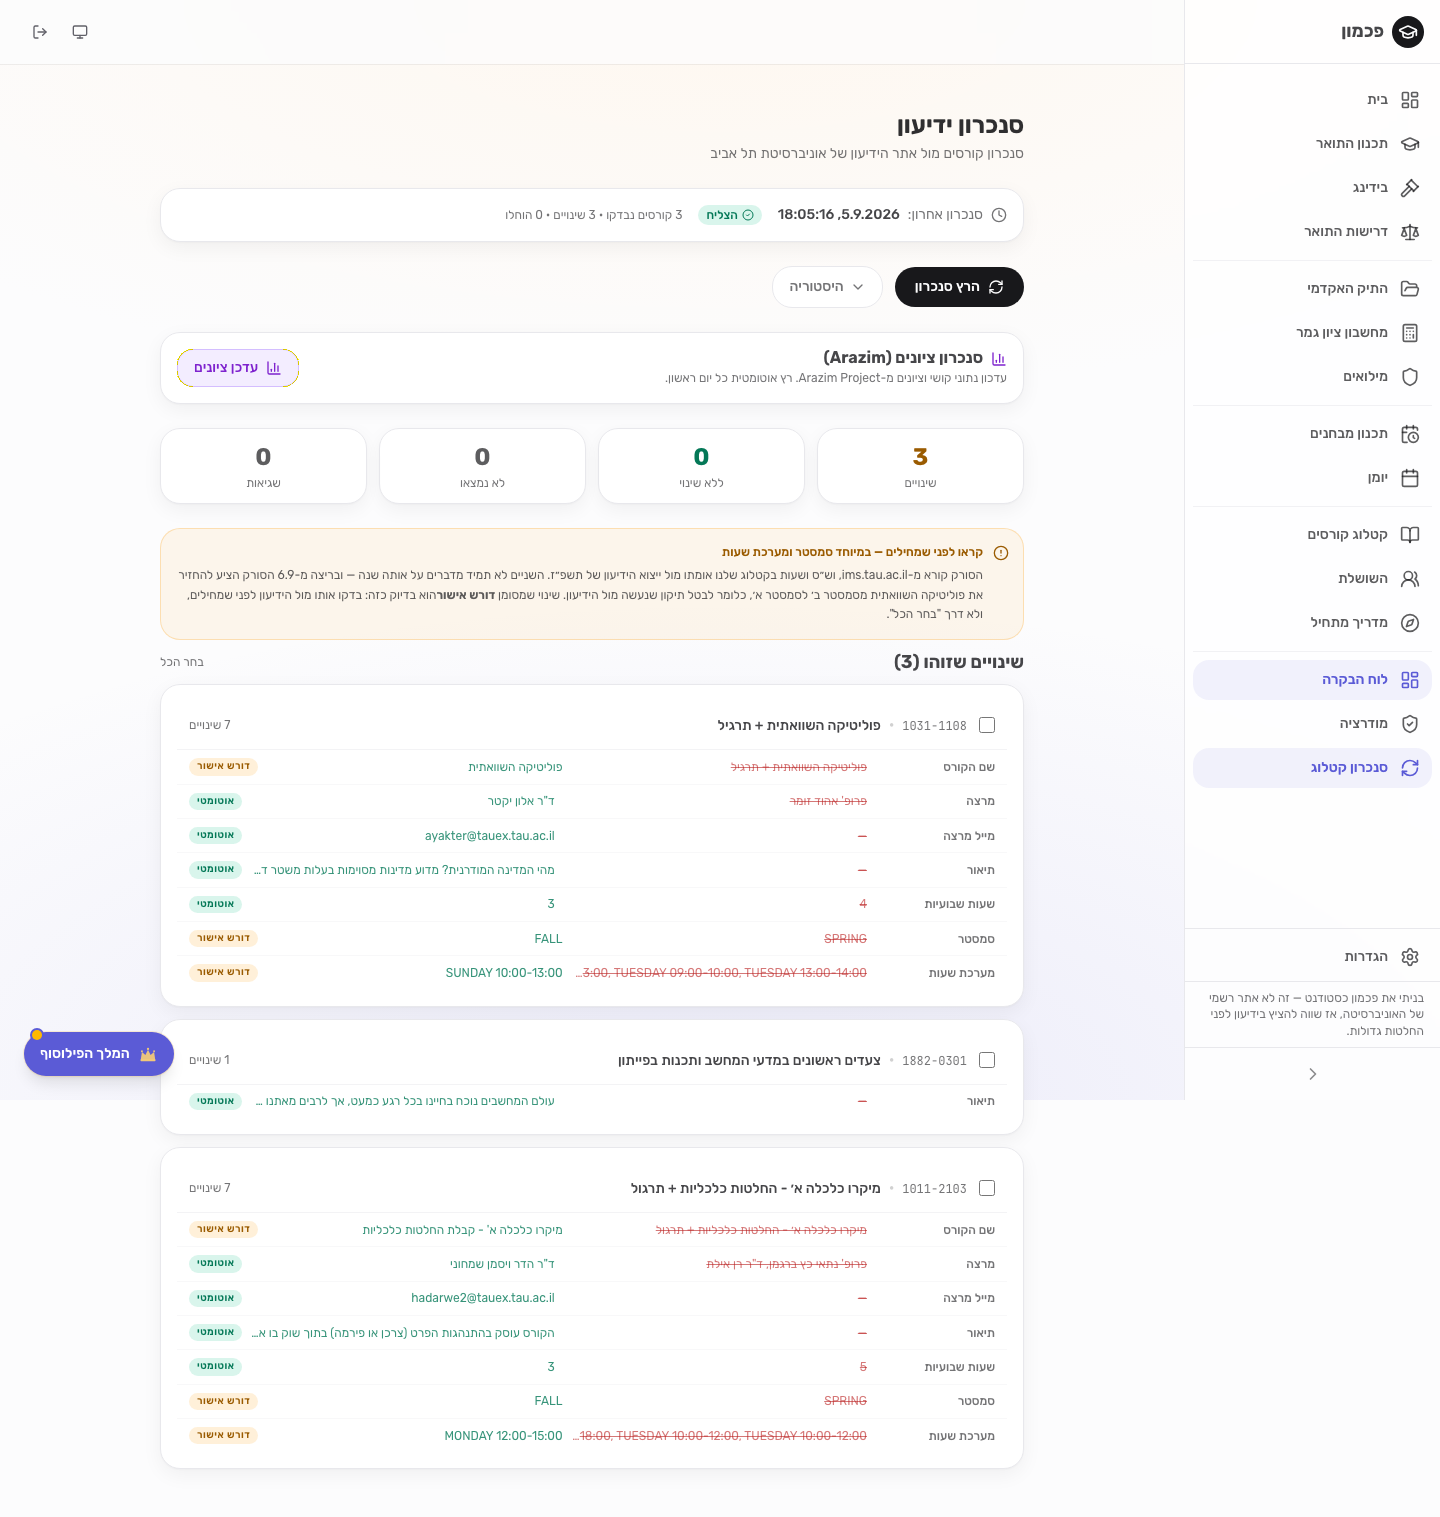
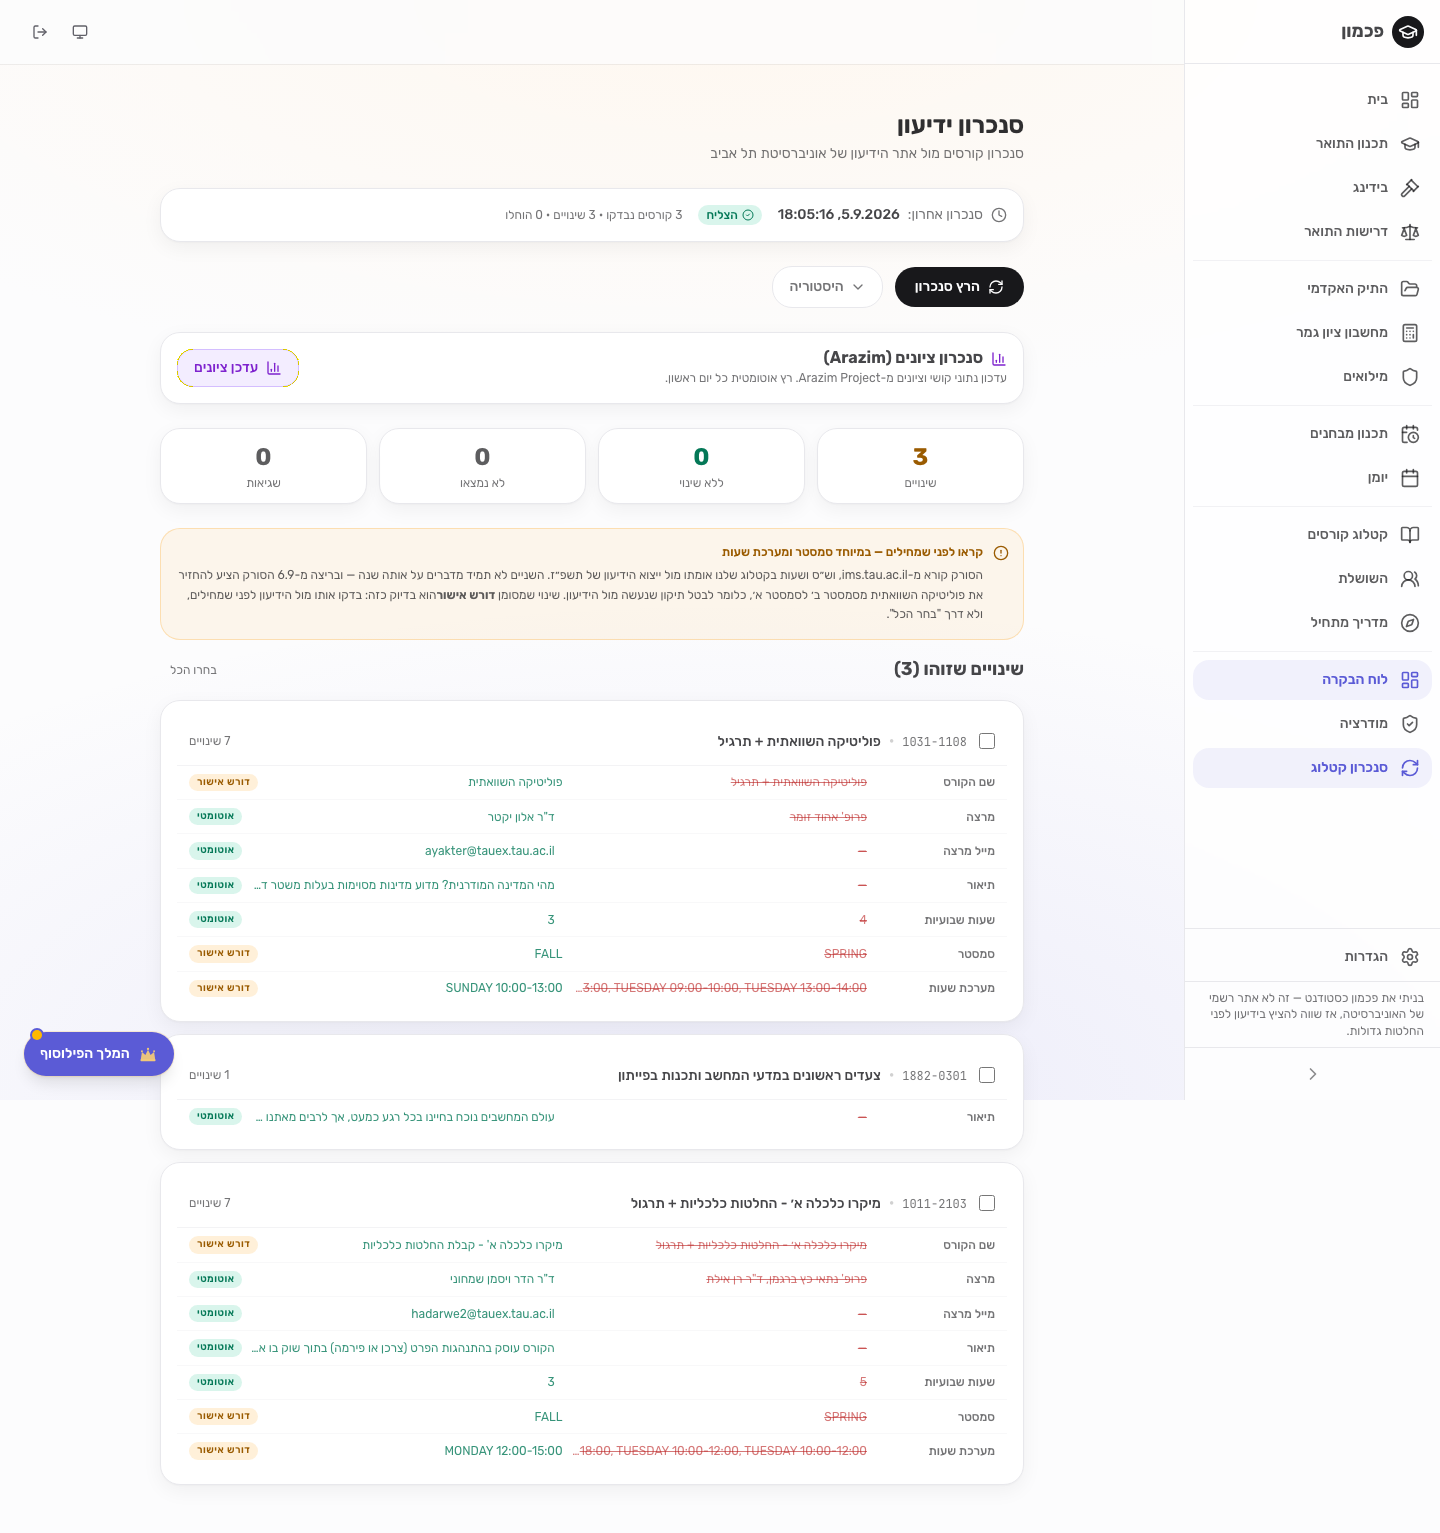
תיעוד סבב הניהול — החשבונות, באג הסנכרון, והמלכודת שנפתחה איתו

diff --git a/docs/לוח-הבקרה-למנהל.md b/docs/לוח-הבקרה-למנהל.md
@@ -162,3 +162,56 @@ JS. **שישה מתוך שישה נקיים.**
 כדי לאמת את המסך הפכתי את `test@pakamon.dev` למנהל זמנית — **ושללתי את זה
 מיד אחרי**, כי הסיסמה שלו יושבת ב-`.env`. אומת: הוא מופנה ל-dashboard
 ומקבל 403.
+
+---
+
+# עדכון 6.9 — סבב הניהול השני
+
+## החשבונות
+- **`arieltzirin@mail.tau.ac.il` הוא המנהל היחיד.** 43 משתמשים במסד, מנהל
+  אחד, אפס תפקידים אחרים.
+- **`tzirin.ariel@gmail.com` נמחק** — הנתונים והשורה. זהות ההתחברות שלו
+  כבר לא הייתה קיימת ב-Supabase ("User not found"), וזו כנראה הסיבה שלא
+  יכולת למחוק אותו מהאפליקציה: בלי להתחבר אליו, אין מאיפה ללחוץ. האפליקציה
+  מוחקת רק את החשבון של מי שמחובר — וזה נכון, משתמש לא אמור למחוק משתמש.
+- לבקשות מחיקה שמגיעות במייל: `npx tsx scripts/delete-user.ts <email>`
+  (ריצה יבשה; `--apply` כדי לבצע). מסרב למחוק את המנהל האחרון.
+
+## מה שנמצא במסך הסנכרון
+
+הסנכרון **נכשל על כל קורס מאז שמפתח הפרוקסי הוגדר.**
+`SCRAPINGBEE_API_KEY` נשמר בפרודקשן עם תו שורה חדשה בסוף, והוא נכנס
+לכתובת כפרמטר שאילתה — `URLSearchParams` מקודד אותו כ-`%0A`, ScrapingBee
+מחזיר 401. נמדד מול ScrapingBee עם המפתח האמיתי:
+
+```
+גולמי (URL מכיל %0A)  → HTTP 401 UNAUTHORIZED
+חתוך                   → HTTP 200 OK
+```
+
+והמסך עצמו אמר ארבעה דברים סותרים בבת אחת: "הצליח" · "נתקל בבעיות" ·
+"הכול מעודכן — אין שינויים" (עם וי ירוק) · "שגיאות (3)". גם "3 קורסים
+נבדקו" למעלה מול "0 קורסים נבדקו" למטה.
+
+תוקן: המפתח נחתך · ריצה שכל הקורסים בה נכשלו נרשמת `failed` · "הכול
+מעודכן" מוצג רק כשבאמת נבדק משהו ואין שגיאות · ליד כל שגיאה גולמית משפט
+בעברית שאומר מה לעשות.
+
+## ⚠ ומה שהתגלה ברגע שהסנכרון עבד
+
+הריצה הראשונה שהצליחה הציעה **להחזיר את פוליטיקה השוואתית מסמסטר ב׳
+לסמסטר א׳** ומיום שלישי ליום ראשון — כלומר לבטל את התיקון שהוחל מייצוא
+הידיעון של תשפ״ז יום קודם, על קורס חובה, ימים לפני הבידינג.
+
+הסורק קורא מ-`ims.tau.ac.il`; הייצוא נלקח מעמוד הידיעון. השניים לא תמיד
+מדברים על אותה שנה, ואין דרך להכריע בקוד מי צודק.
+
+**שום דבר לא הוחל** (הריצה נרשמה `הוחלו=0`, ו-1031-1108 עדיין סמסטר ב׳
+יום ג׳ 10:00–13:00). ומעל רשימת השינויים יש עכשיו אזהרה שאומרת בדיוק את
+זה. **שינוי שמסומן "דורש אישור" — בדקו מול הידיעון לפני שמחילים, ולא דרך
+"בחרו הכל".**
+
+## מה נבדק בסבב הזה
+שלושת מסכי הניהול, בפרודקשן, אחרי הפריסה: גלישה אופקית · יעדי מגע ·
+שמות נגישים · שגיאות JS · והסתירה הספציפית של "הכול מעודכן" ליד שגיאות.
+**שלושה מתוך שלושה נקיים.** צילומים: `video/shots/final-admin-*.png`.
